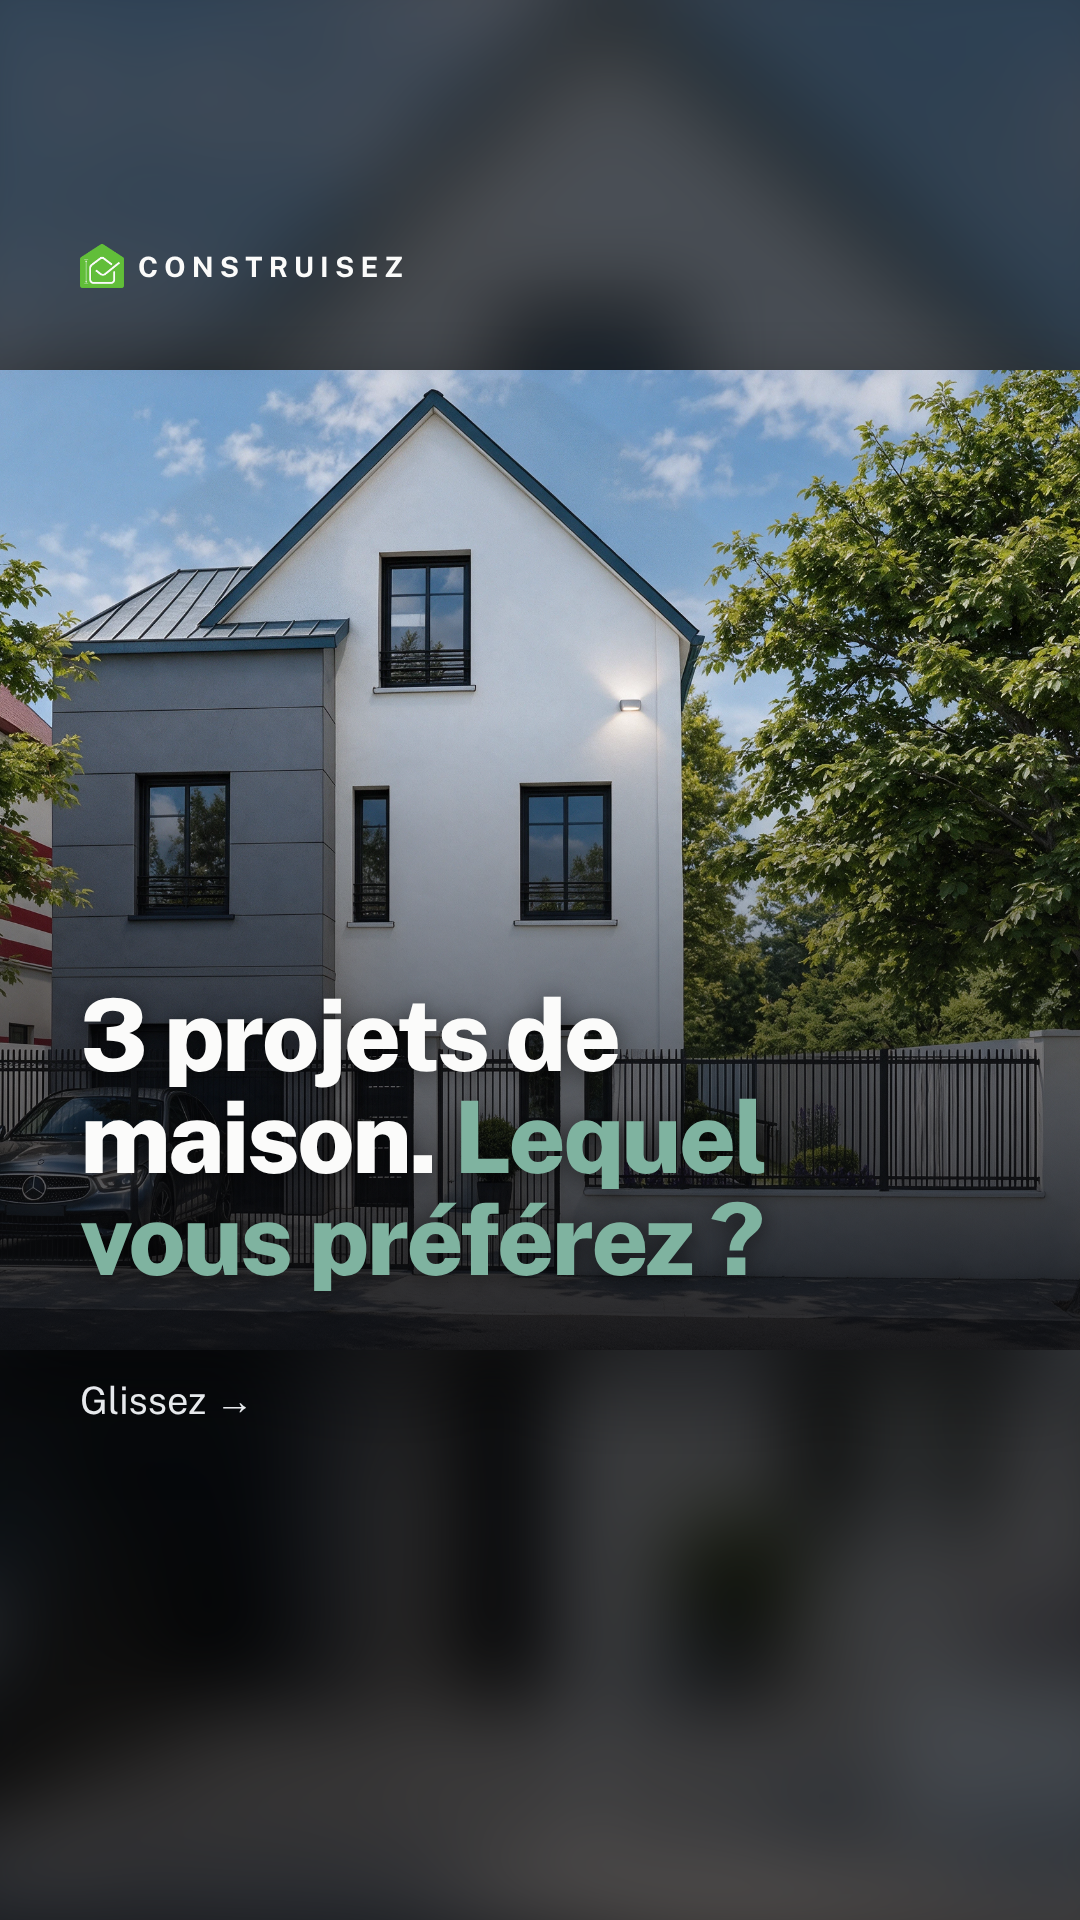
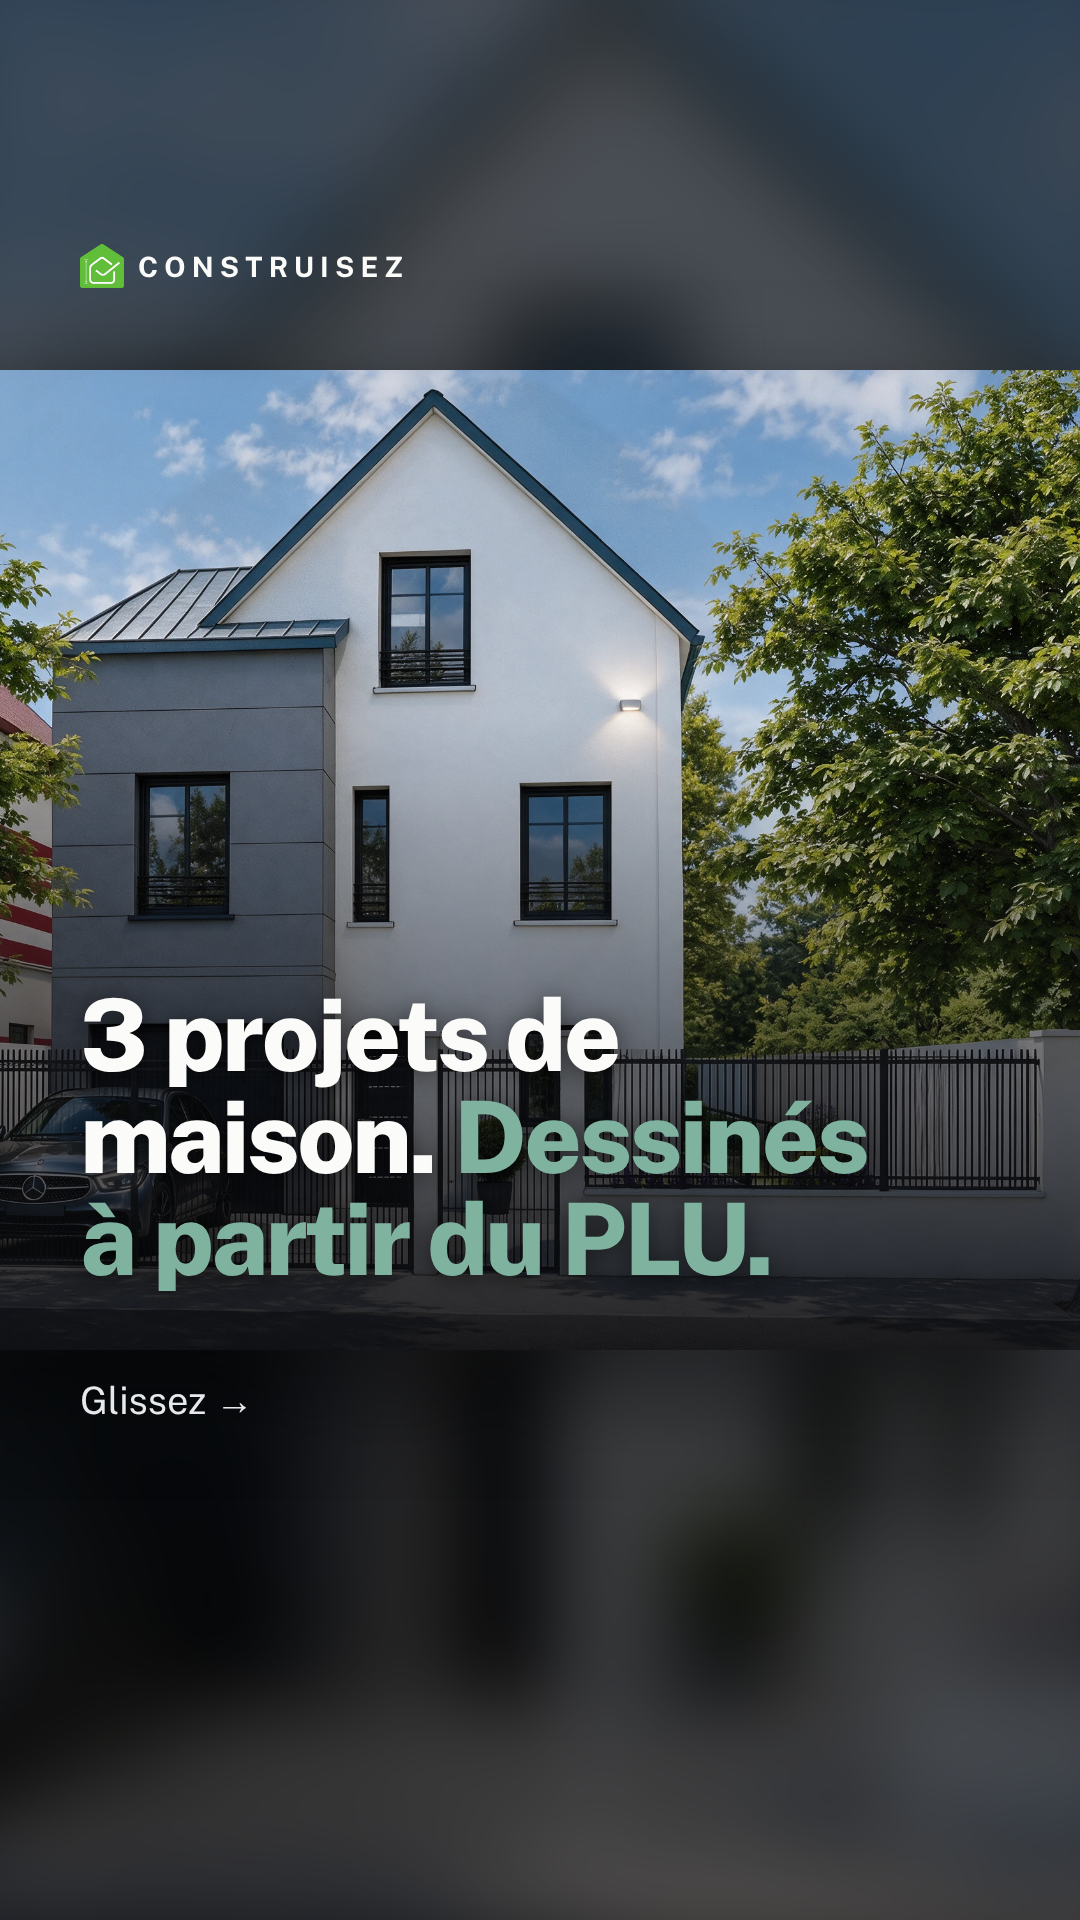
Construisez : carrousel TikTok « 3 projets de maison » programmé, sans question au public
Claude-Session: https://claude.ai/code/session_0136MvX55qaDcb6uUszHry6Q

Changed region(s): [[0.0611, 0.5625, 0.7944, 0.6875]]

diff --git a/zernio/visuels/tiktok-3-projets.html b/zernio/visuels/tiktok-3-projets.html
@@ -38,11 +38,11 @@
 </head>
 <body>
 
-<section class="slide tk" id="q0"><div class="blur" style="background-image:url('brand/photos/projets/projet-toit-zinc.webp')"></div><div class="pic shade" style="background-image:url('brand/photos/projets/projet-toit-zinc.webp');background-position:71.1% center"></div><div class="top"><div class="brandline"><img src="brand/logo-mark.png" alt="">CONSTRUISEZ</div></div><div class="big">3 projets de maison. <em>Lequel vous préférez ?</em></div><div class="next">Glissez →</div></section>
+<section class="slide tk" id="q0"><div class="blur" style="background-image:url('brand/photos/projets/projet-toit-zinc.webp')"></div><div class="pic shade" style="background-image:url('brand/photos/projets/projet-toit-zinc.webp');background-position:71.1% center"></div><div class="top"><div class="brandline"><img src="brand/logo-mark.png" alt="">CONSTRUISEZ</div></div><div class="big">3 projets de maison. <em>Dessinés à partir du PLU.</em></div><div class="next">Glissez →</div></section>
 <section class="slide tk" id="q1"><div class="blur" style="background-image:url('brand/photos/projets/projet-villa-blanche.webp')"></div><div class="pic" style="background-image:url('brand/photos/projets/projet-villa-blanche.webp');background-position:50.0% center"></div><div class="top"><div class="n">1<small>/ 3</small></div><div class="lab">IMAGE DU PROJET</div></div><div class="next">Glissez pour le suivant →</div></section>
 <section class="slide tk" id="q2"><div class="blur" style="background-image:url('brand/photos/projets/projet-toit-zinc.webp')"></div><div class="pic" style="background-image:url('brand/photos/projets/projet-toit-zinc.webp');background-position:71.1% center"></div><div class="top"><div class="n">2<small>/ 3</small></div><div class="lab">IMAGE DU PROJET</div></div><div class="next">Glissez pour le suivant →</div></section>
-<section class="slide tk" id="q3"><div class="blur" style="background-image:url('brand/photos/projets/projet-jardin.webp')"></div><div class="pic" style="background-image:url('brand/photos/projets/projet-jardin.webp');background-position:76.3% center"></div><div class="top"><div class="n">3<small>/ 3</small></div><div class="lab">IMAGE DU PROJET</div></div><div class="next">Alors : 1, 2 ou 3 ?</div></section>
-<section class="slide tk" id="q9"><div class="top"><div class="brandline"><img src="brand/logo-mark.png" alt="">CONSTRUISEZ</div></div><div class="big" style="bottom:900px"><em>1, 2 ou 3 ?</em> Dites-le en commentaire.</div><div class="small" style="top:1060px">Et si vous avez un projet, écrivez « PROJET » : on vérifie ce que votre PLU autorise.</div></section>
+<section class="slide tk" id="q3"><div class="blur" style="background-image:url('brand/photos/projets/projet-jardin.webp')"></div><div class="pic" style="background-image:url('brand/photos/projets/projet-jardin.webp');background-position:76.3% center"></div><div class="top"><div class="n">3<small>/ 3</small></div><div class="lab">IMAGE DU PROJET</div></div><div class="next">Glissez →</div></section>
+<section class="slide tk" id="q9"><div class="top"><div class="brandline"><img src="brand/logo-mark.png" alt="">CONSTRUISEZ</div></div><div class="big" style="bottom:900px">Votre projet <em>commence par votre PLU.</em></div><div class="small" style="top:1060px">Écrivez « PROJET » en commentaire : on vérifie ce qu'il autorise sur votre terrain.</div></section>
 
 </body>
 </html>
